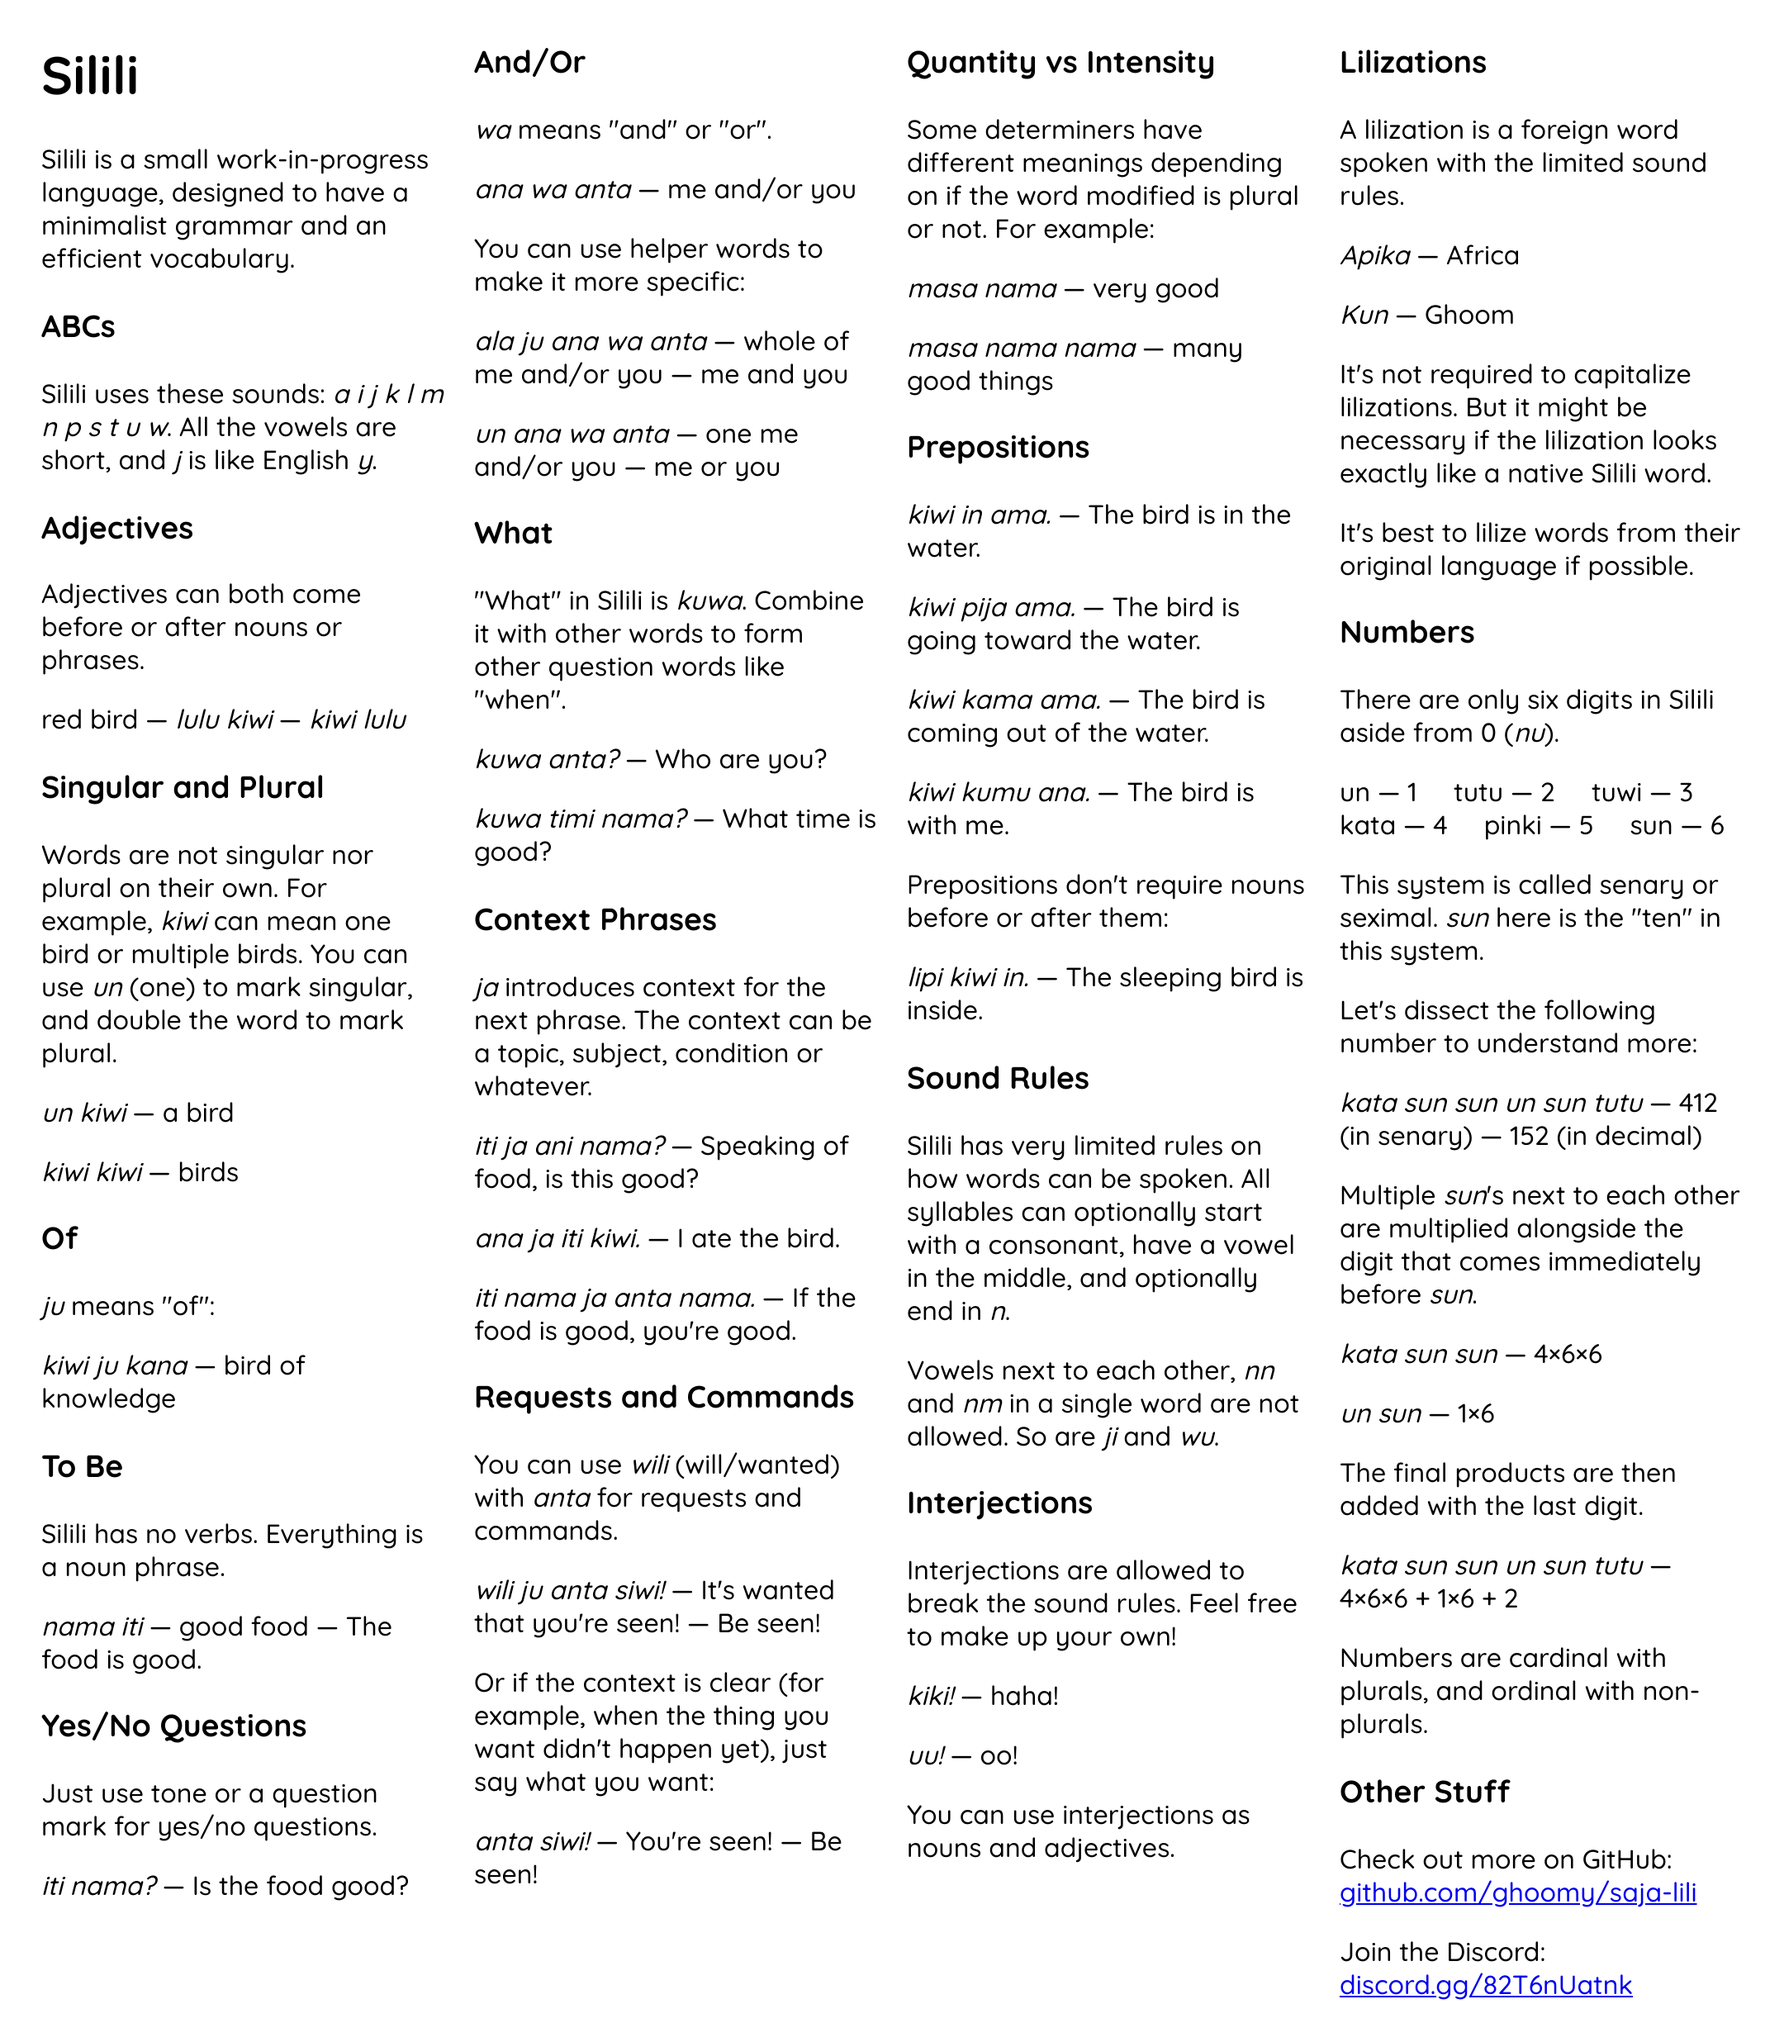
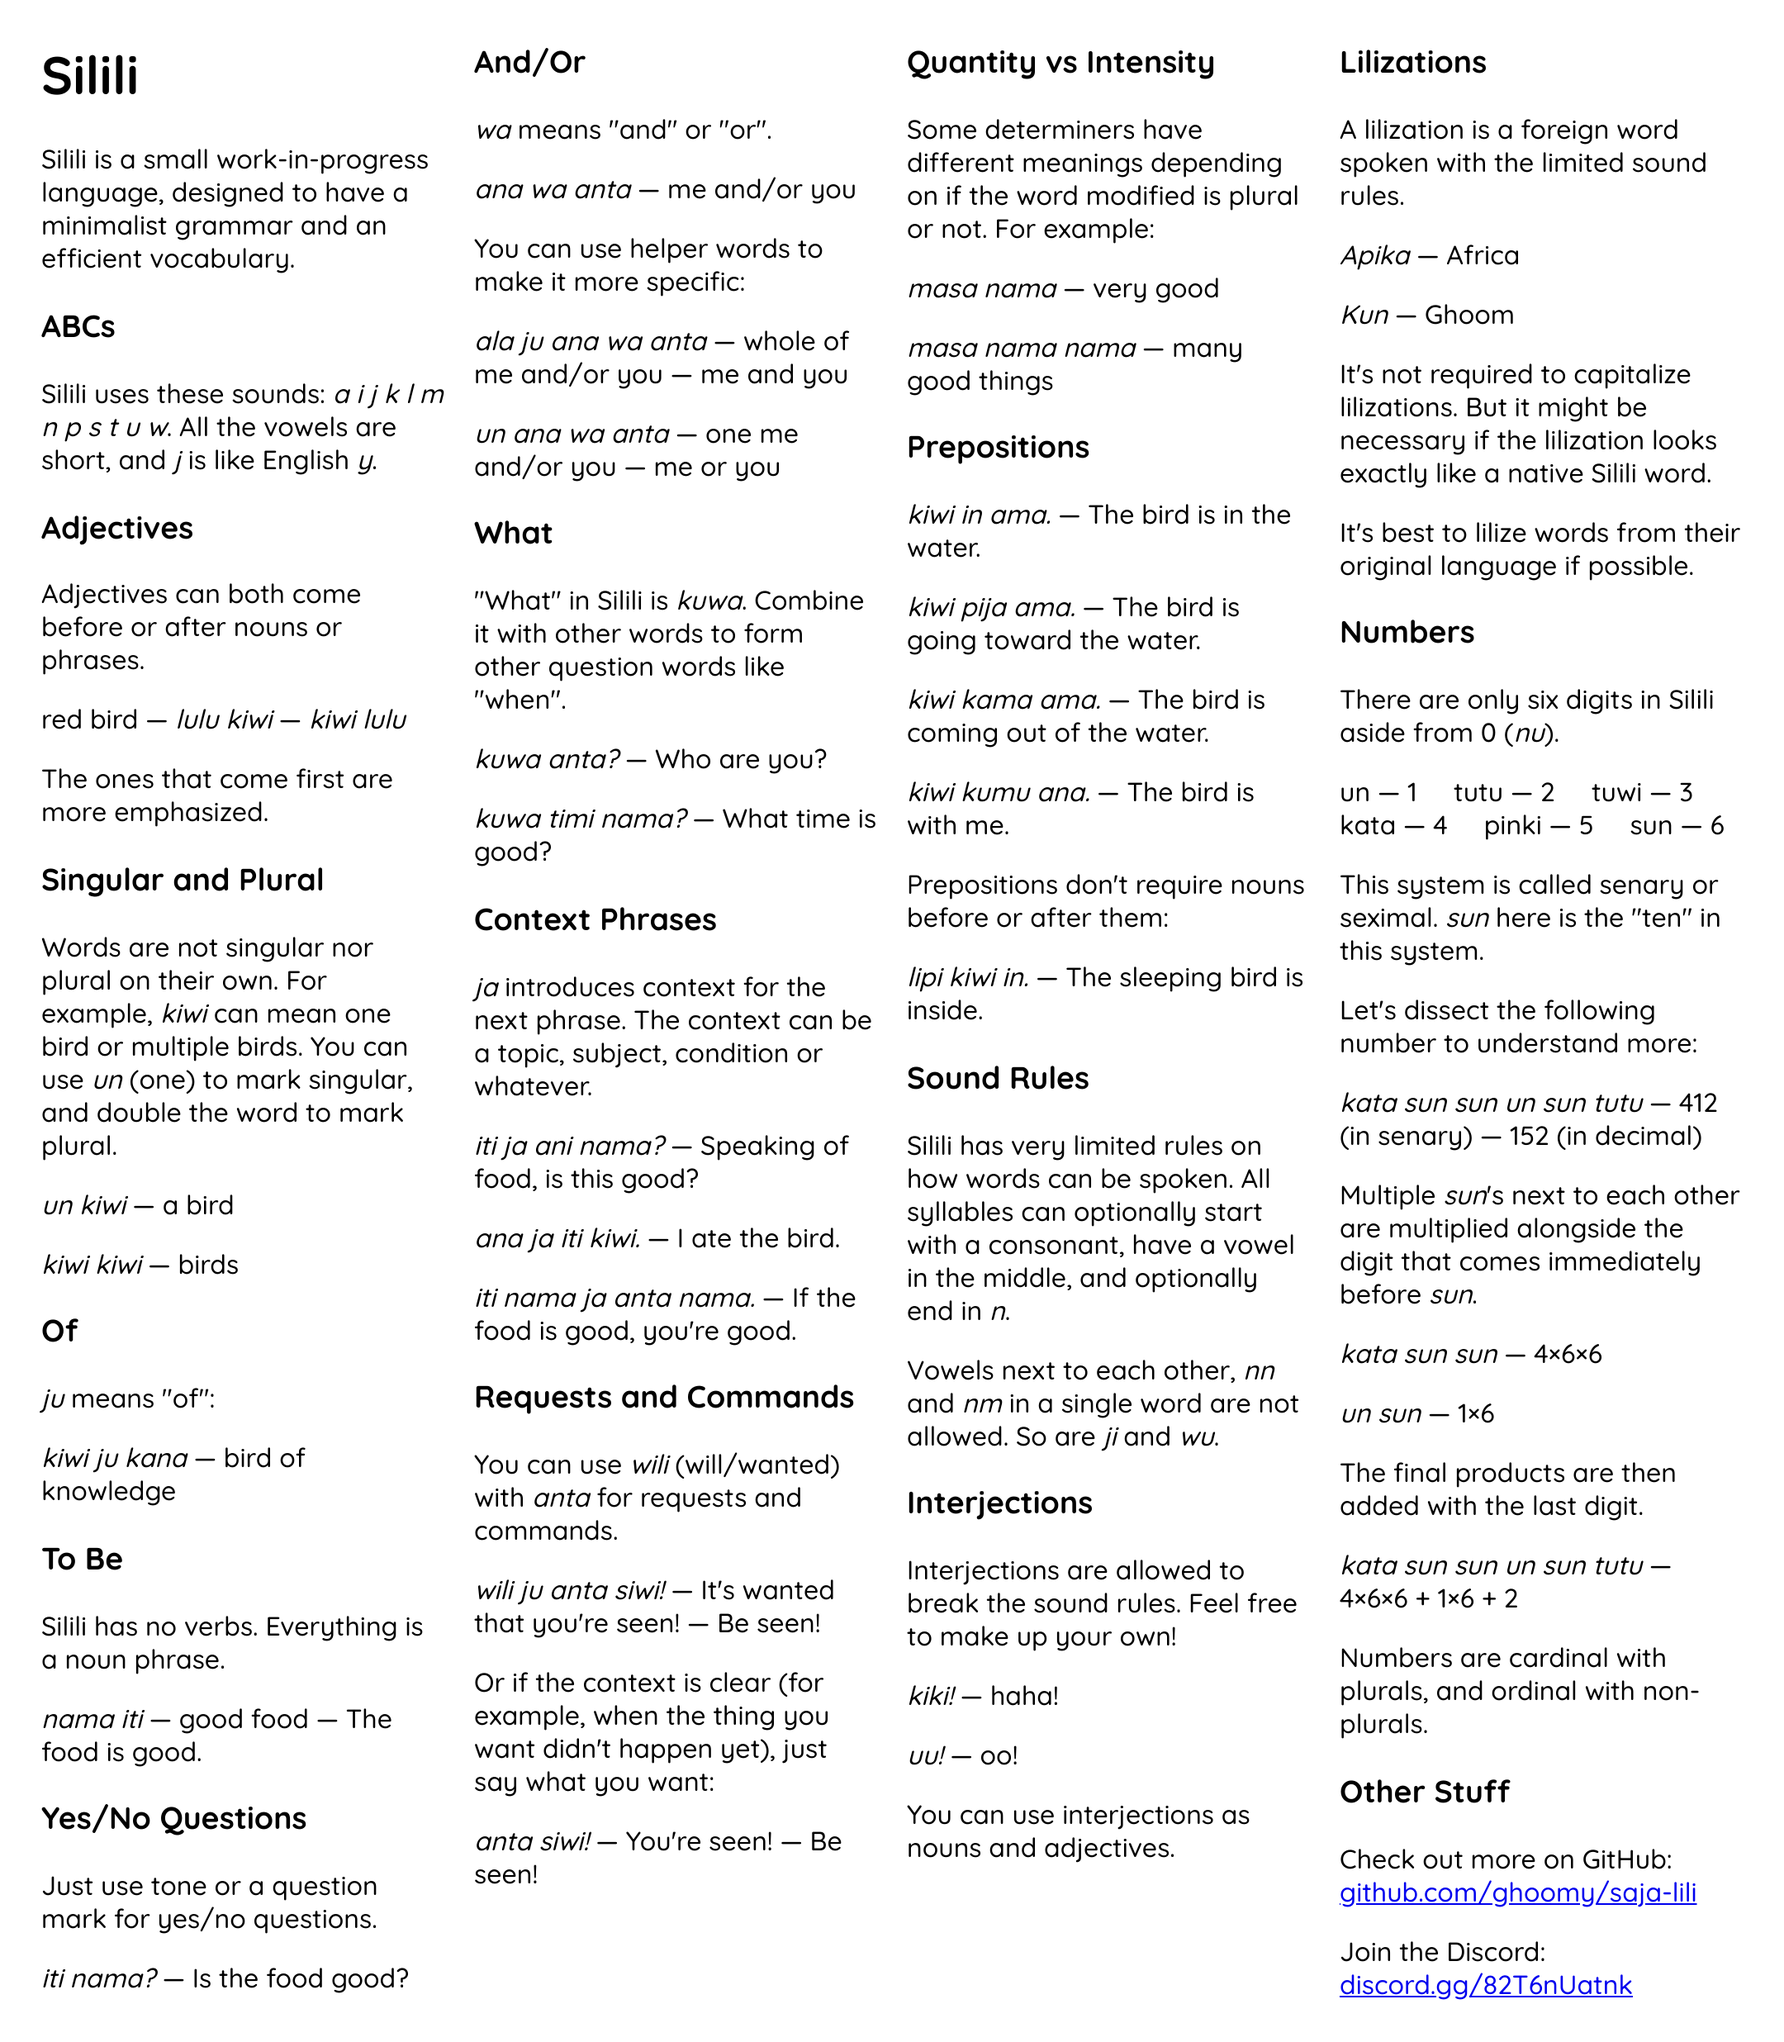
...

Changed region(s): [[0.031, 0.3738, 0.2171, 0.9656], [0.1861, 0.9656, 0.2171, 0.9968]]

diff --git a/README.md b/README.md
@@ -26,6 +26,8 @@ Adjectives can both come before or after nouns or phrases.
 
 red bird — *lulu kiwi* — *kiwi lulu*
 
+The ones that come first are more emphasized.
+
 ### Singular and Plural
 
 Words are not singular nor plural on their own. For example, *kiwi* can mean one bird or multiple birds. You can use *un* (one) to mark singular, and double the word to mark plural.
